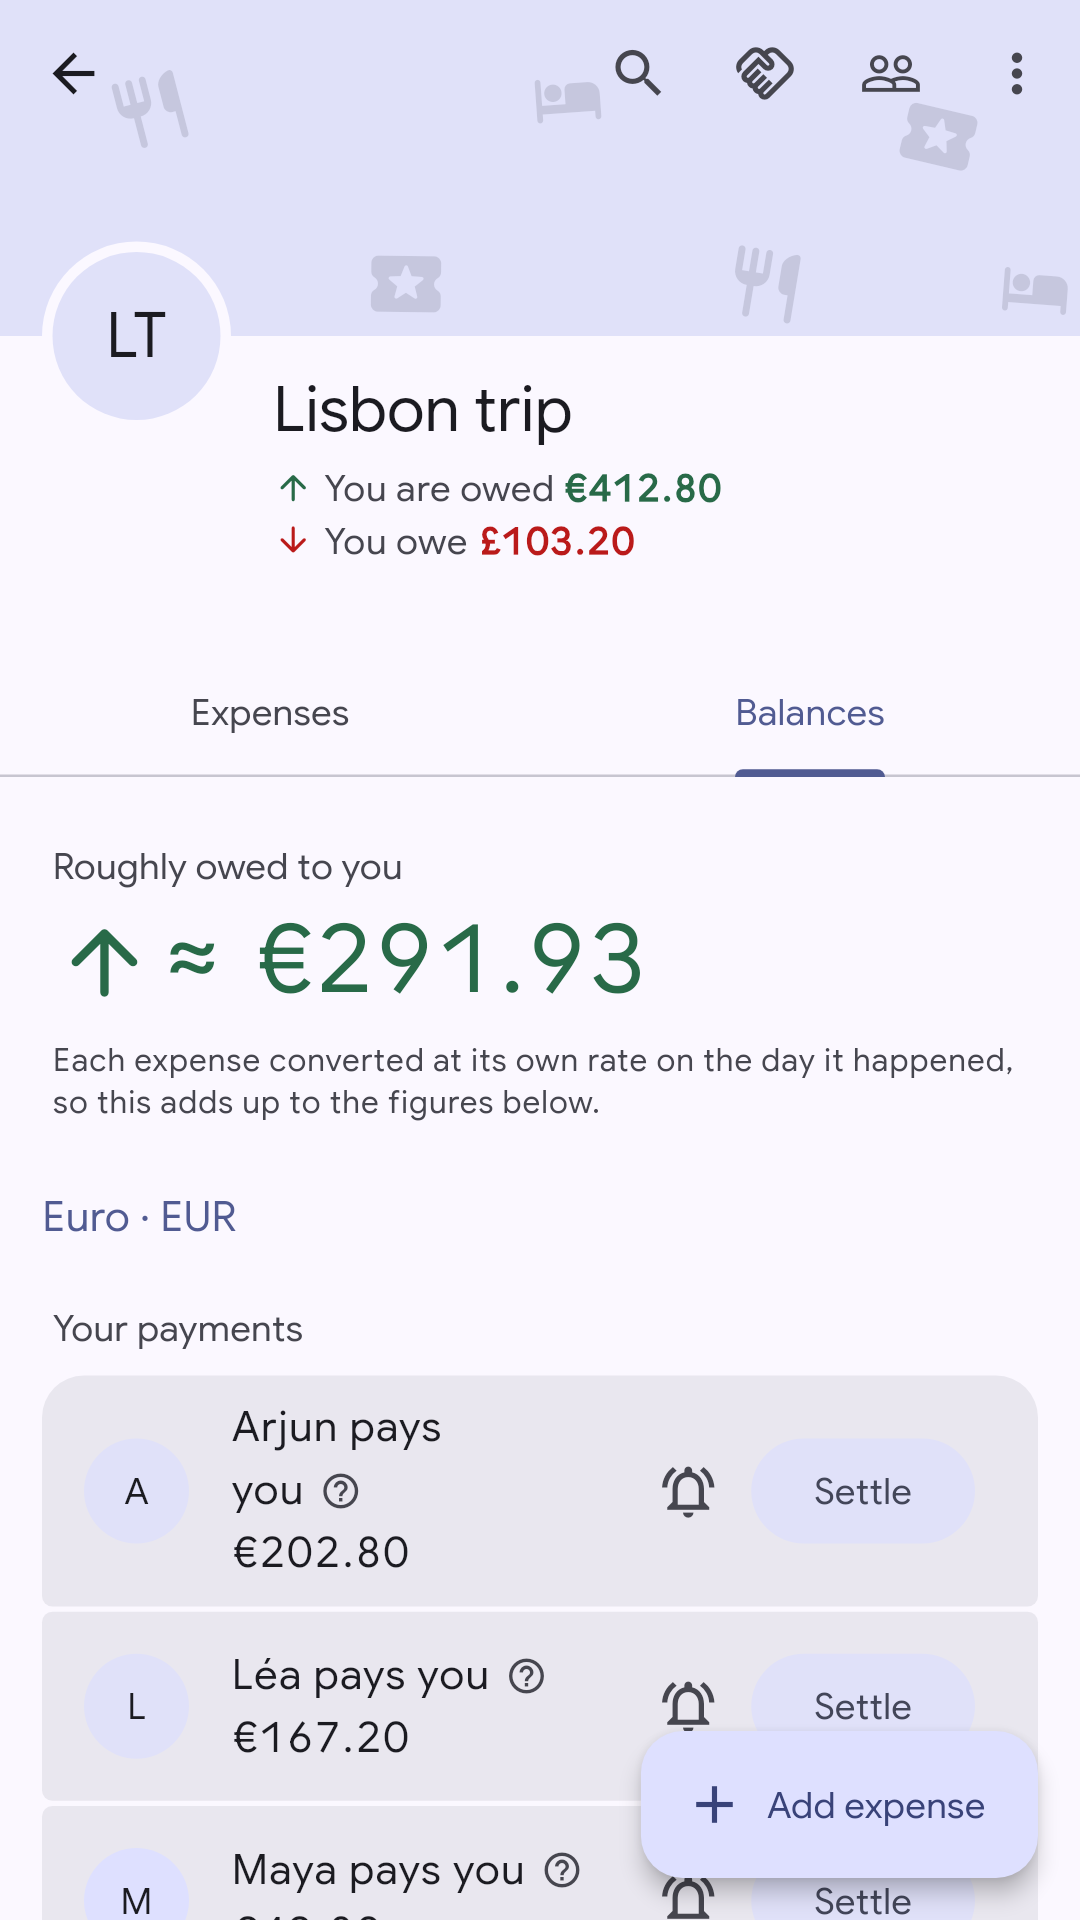
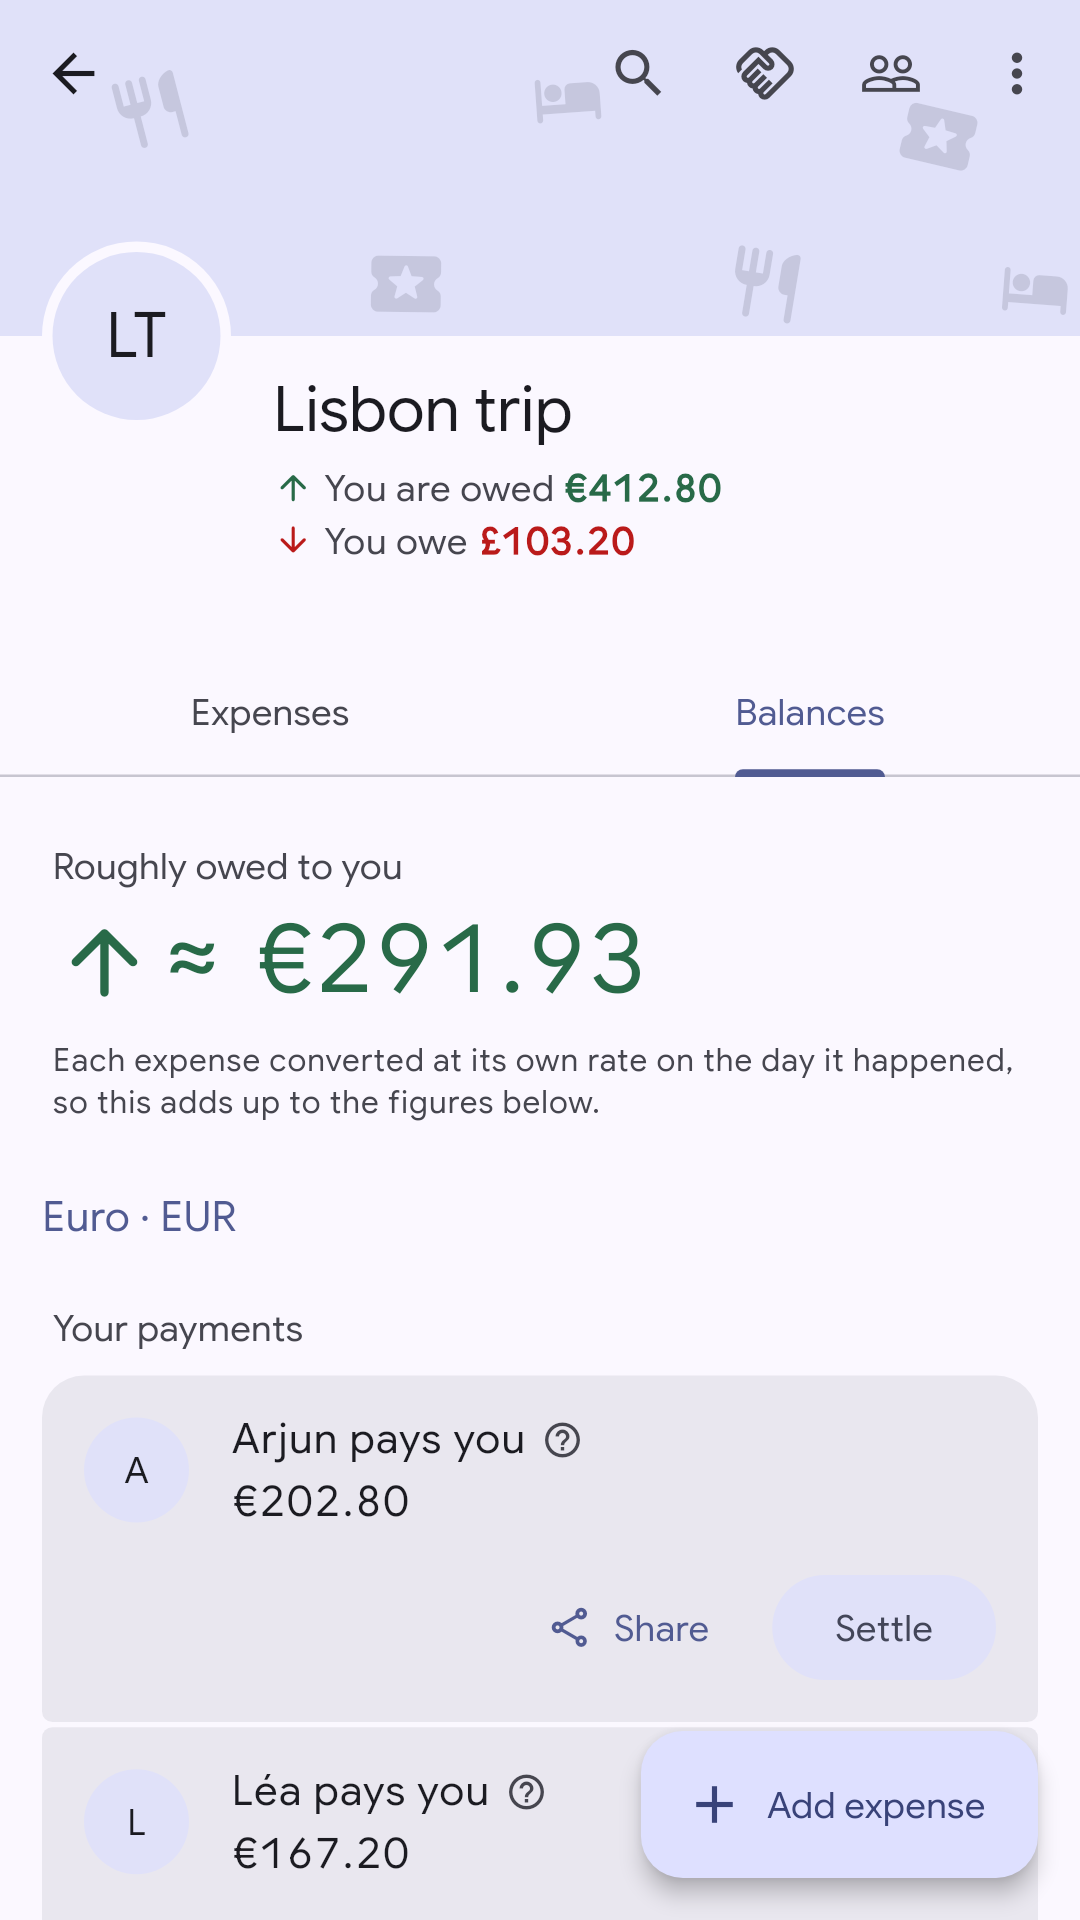
Give payments on Balances their own actions row
Pay when you owe, Settle and Share when you are owed. The buttons sit
under the payment rather than beside it, so names no longer wrap around
them.

Claude-Session: https://claude.ai/code/session_0128mH24KjVpj9yX86SpgXHq

diff --git a/lib/presentation/widgets/balances_panel.dart b/lib/presentation/widgets/balances_panel.dart
@@ -363,10 +363,11 @@ class _TransferTile extends StatelessWidget {
       '&currency=${transfer.currency}',
     );
 
-    // Money owed to you can be asked for as well as recorded.
+    // Money owed to you can be asked for as well as recorded: the message
+    // goes out through whichever app the person picks.
     final owedToMe = !isMine && involvesMe;
     final me = ledger.me;
-    void remind() => SharePlus.instance.share(
+    void share() => SharePlus.instance.share(
       ShareParams(
         text: reminderText(
           debtorName: from,
@@ -377,7 +378,7 @@ class _TransferTile extends StatelessWidget {
       ),
     );
 
-    return Semantics(
+    final tile = Semantics(
       hint: 'Shows how this payment was worked out',
       child: ListTile(
         onTap: () => _explain(context, onRecord: involvesMe ? null : settle),
@@ -430,27 +431,40 @@ class _TransferTile extends StatelessWidget {
             Theme.of(context).textTheme.titleMedium!,
           ).copyWith(color: scheme.onSurface),
         ),
-        // Only on payments you are part of. The others' stay a tap away in
-        // their explanation and in Settle up, rather than putting a button
-        // on every row that is not yours to act on.
-        trailing: !ledger.canEdit || !involvesMe
-            ? null
-            : Row(
-                mainAxisSize: MainAxisSize.min,
-                children: [
-                  if (owedToMe)
-                    IconButton(
-                      tooltip: 'Remind $from',
-                      onPressed: remind,
-                      icon: const Icon(Icons.notifications_active_outlined),
-                    ),
-                  FilledButton.tonal(
-                    onPressed: settle,
-                    child: const Text('Settle'),
-                  ),
-                ],
-              ),
       ),
+    );
+    // Only on payments you are part of. The others' stay a tap away in
+    // their explanation and in Settle up, rather than putting buttons on
+    // every row that is not yours to act on.
+    if (!ledger.canEdit || !involvesMe) return tile;
+
+    return Column(
+      crossAxisAlignment: CrossAxisAlignment.stretch,
+      children: [
+        tile,
+        Padding(
+          padding: const EdgeInsets.fromLTRB(16, 0, 16, 12),
+          child: OverflowBar(
+            alignment: MainAxisAlignment.end,
+            overflowAlignment: OverflowBarAlignment.end,
+            spacing: 8,
+            overflowSpacing: 4,
+            children: [
+              // Asking is for whoever is owed. Whoever owes can only pay.
+              if (owedToMe)
+                TextButton.icon(
+                  onPressed: share,
+                  icon: const Icon(Icons.share_outlined),
+                  label: const Text('Share'),
+                ),
+              FilledButton.tonal(
+                onPressed: settle,
+                child: Text(isMine ? 'Pay' : 'Settle'),
+              ),
+            ],
+          ),
+        ),
+      ],
     );
   }
 

diff --git a/test/app_flow_test.dart b/test/app_flow_test.dart
@@ -139,8 +139,9 @@ void main() {
     await _settle(tester);
 
     // ---- Settle up -------------------------------------------------------
-    final transferRow = find.ancestor(
-      of: find.widgetWithText(FilledButton, 'Settle').first,
+    final settleButton = find.widgetWithText(FilledButton, 'Settle').first;
+    final transferRow = find.descendant(
+      of: find.ancestor(of: settleButton, matching: find.byType(Column)).first,
       matching: find.byType(ListTile),
     );
     final transferTags = tester
@@ -150,7 +151,7 @@ void main() {
         .map((hero) => hero.tag)
         .toSet();
     expect(transferTags, hasLength(3));
-    await tester.tap(find.widgetWithText(FilledButton, 'Settle').first);
+    await tester.tap(settleButton);
     await tester.pump();
     await tester.pump(const Duration(milliseconds: 100));
     for (final tag in transferTags) {

diff --git a/CHANGELOG.md b/CHANGELOG.md
@@ -11,7 +11,7 @@ What changed in each version of the app, newest first. The format is
 - Opening an expense or payment shows it to read first: what it cost you, who paid, how it was split and its history. Edit is one tap away.
 - The groups list adds up what you owe and are owed across groups, and folds groups that are settled and quiet for a month under Settled groups.
 - A dot marks groups with changes since you last opened them, and Activity marks what is new.
-- Remind someone who owes you from Balances, with a message ready to share.
+- Payments on Balances have their own actions: Pay when you owe, and Settle or Share a ready-made reminder when you are owed.
 
 ### Changed
 - Expense rows show what each expense means for you on the right, with the full description and who paid. Recorded payments appear as a tinted row, without red or green.
